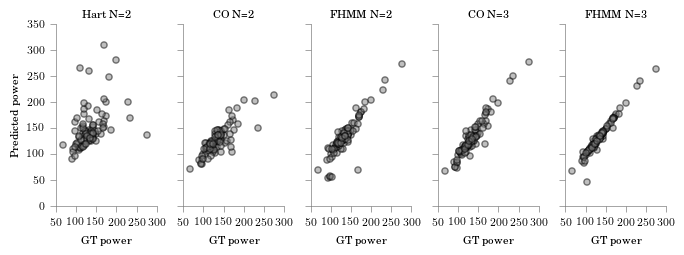
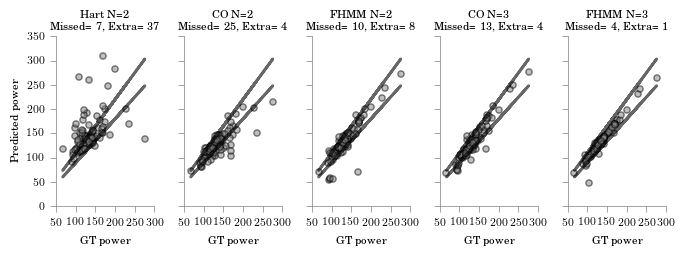
more data from HVAC

diff --git a/code/hvac/model_accuracy_nilm_group.py b/code/hvac/model_accuracy_nilm_group.py
@@ -18,9 +18,9 @@ from common_functions import latexify, format_axes
 
 NUM_CLASSES = 2
 
-output = OrderedDict()
+output ={}
 gt_confusion = np.array([[25, 9], [8, 16]])
-output["Submetered"] = {"Precision": 25.0 / 33, "Recall": 25.0 / 34, "Accuracy": 41.0 / 58}
+hart_confusion = np.array([[25, 9],[13,11]])
 
 
 def powerset(iterable, N_max):
@@ -36,23 +36,22 @@ def accuracy_multiclass(y_true, y_pred):
         out += confusion[i, i] * 1.0 / np.sum(confusion[i])
     return out / length
 
-def find_name(folder):
+def return_name(folder):
     algo_name = folder.split("_")[-1]
     algo_N = folder.split("_")[0][1]
     algo_K = folder.split("_")[1][1]
     if algo_name=="Hart":
-        return "Hart"
+        return "Hart", 2, 3
     else:
-        return algo_name+" (N= "+algo_N+", K= "+algo_K+")"
+        return algo_name, algo_N, algo_K
 
 
-to_consider = ["N2_K3_T50_CO", "N2_K4_T50_CO", "N2_K5_T50_CO","N2_K6_T50_CO"
-               "N3_K3_T50_CO", "N3_K4_T50_CO", "N3_K5_T50_CO","N3_K6_T50_CO"
-               "N4_K3_T50_CO", "N4_K4_T50_CO", "N4_K5_T50_CO","N4_K6_T50_CO",
-               "N2_K3_T50_FHMM", "N2_K4_T50_FHMM", "N2_K5_T50_FHMM","N2_K6_T50_FHMM"
-               "N3_K3_T50_FHMM", "N3_K4_T50_FHMM", "N3_K5_T50_FHMM","N3_K6_T50_FHMM"
-               "N4_K3_T50_FHMM", "N4_K4_T50_FHMM", "N4_K5_T50_FHMM","N4_K6_T50_FHMM"
-                ]
+to_consider = ["N2_K3_T50_CO", "N2_K4_T50_CO", "N2_K5_T50_CO",
+               "N3_K3_T50_CO", "N3_K4_T50_CO", "N3_K5_T50_CO",
+               "N4_K3_T50_CO", "N4_K4_T50_CO", "N4_K5_T50_CO",
+               "N2_K3_T50_FHMM","N2_K4_T50_FHMM","N2_K5_T50_FHMM",
+               "N3_K3_T50_FHMM","N3_K4_T50_FHMM","N3_K5_T50_FHMM",
+               "N4_K3_T50_FHMM","N4_K4_T50_FHMM","N4_K5_T50_FHMM"]
 
 for folder in to_consider:
     df = pd.read_csv("../../data/hvac/minutes_%s.csv" % folder)
@@ -79,13 +78,39 @@ for folder in to_consider:
     recall = 1.0 * a[0][0] / (a[0][0] + a[0][1])
     overall_accuracy = 1.0 * (a[0][0] + a[1][1]) / (np.sum(a))
 
-    algo_identifier = find_name(folder)
-    output[algo_identifier] = {"Precision": precision, "Recall": recall, "Accuracy": overall_accuracy}
+    algo, N, K = return_name(folder)
+    for metric in ["Precision", "Recall", "Accuracy"]:
+        if metric not in output:
+         output[metric] = {}
+
+    for metric in ["Precision", "Recall", "Accuracy"]:
+        if N not in output[metric]:
+                output[metric][N] = {}
+
+    for metric in ["Precision", "Recall", "Accuracy"]:
+        if K not in output[metric][N]:
+            output[metric][N][K] = {}
+    o_dict= {"Precision": precision, "Recall": recall, "Accuracy": overall_accuracy}
+
+    for metric in ["Precision", "Recall", "Accuracy"]:
+        output[metric][N][K][algo] = o_dict[metric]
+
+
+latexify(columns=2, fig_height=4.8)
+fig, ax = plt.subplots(nrows=3, ncols=3)
+
+for row_num, metric in enumerate(["Precision", "Recall", "Accuracy"]):
+    for col_num, num_states in enumerate(['2','3','4']):
+        df = pd.DataFrame(output[metric][num_states])
+        df.plot(kind="bar", ax=ax[row_num, col_num])
+
+plt.savefig(os.path.join(script_path, "../../figures/hvac/","hvac_feedback_nilm_aggregate.pdf"))
+plt.savefig(os.path.join(script_path, "../../figures/hvac/","hvac_feedback_nilm_aggregate.png"))
+
 """
 out_df = pd.DataFrame(output)
 #out_df.columns = ["Submetered", "CO (N=2, K=3)","CO (N=3, K=3)","CO (N=3, K=4)","FHMM (N=2, K=3)","FHMM (N=3, K=3)", "Hart"]
 
-latexify(columns=2, fig_height=2.6)
 ax = out_df.plot(kind="bar", rot=0)
 format_axes(ax)
 plt.tight_layout()

diff --git a/code/hvac/curve_fitting_hvac_weather_lmfit_constraints_2013.py b/code/hvac/curve_fitting_hvac_weather_lmfit_constraints_2013.py
@@ -3,10 +3,11 @@ import os
 import numpy as np
 import matplotlib.pyplot as plt
 
-plt.style.use('ggplot')
 import pandas as pd
 from lmfit import minimize, Parameters, report_fit
 
+import sys
+sys.path.append("../common")
 
 def get_hourly_aggregate(df, how='mean'):
     df_c = df.copy()
@@ -217,12 +218,31 @@ energy_df = pd.DataFrame({"energy": energy})
 energy_hourly_mean_df = get_hourly_aggregate(energy_df)
 temp_hourly_mean_df = get_hourly_aggregate(hour_usage_df[["temperature"]])
 
-fig, ax = plt.subplots()
-plt.plot(data, label='actual')
-plt.plot(final, label='predicted')
-plt.legend()
-plt.xlabel("Hours")
-plt.ylabel("Energy in kWh")
+from common_functions import latexify, format_axes
+latexify(columns=1, fig_height=3.4)
+fig, ax = plt.subplots(nrows=2)
+ax[0].scatter(data, final)
+ax[0].set_xlabel("Actual energy consumption(kWh)\n(a)")
+ax[0].set_ylabel("Predicted energy\n consumption(kWh)")
+
+ax[1].plot(data[:24], label='Actual')
+ax[1].plot(final[:24], label='Predicted')
+#plt.fill_between(range(len(data[:24])), data[:24], 0, color='g', alpha=1, label='actual')
+#plt.fill_between(range(len(final[:24])), final[:24], 0, color='r', alpha=0.5, label='predicted')
+ax[1].legend(loc="upper center")
+ax[1].set_xlabel("Hours\n(b)")
+ax[1].set_ylabel("Energy (kWh)")
+
+format_axes(ax[0])
+format_axes(ax[1])
+plt.tight_layout()
+
+import os
+
+plt.savefig(os.path.expanduser("~/git/nilm-actionable/figures/hvac/model.pdf"))
+plt.savefig(os.path.expanduser("~/git/nilm-actionable/figures/hvac/model.png"))
+
+"""
 if SAVE:
     plt.savefig("pred_actual.png")
 fig, ax = plt.subplots(nrows=3, sharex=True)
@@ -241,3 +261,4 @@ ax[2].set_ylabel("Hourly mean temperature")
 plt.xlabel("Hour of day")
 if SAVE:
     plt.savefig("setpoint.png")
+"""

diff --git a/code/hvac/nilm_create_feature.py b/code/hvac/nilm_create_feature.py
@@ -123,10 +123,13 @@ def fcn2min_time_fixed_binary(params, x, data):
 
 
 
-to_consider = ["N2_K3_T50_CO", "N2_K4_T50_CO", "N2_K5_T50_CO",
-               "N3_K3_T50_CO", "N3_K4_T50_CO", "N3_K5_T50_CO",
-               "N2_K3_T50_FHMM","N2_K4_T50_FHMM","N2_K5_T50_FHMM",
-               "N3_K3_T50_FHMM","N3_K4_T50_FHMM","N3_K5_T50_FHMM",
+to_consider = ["N2_K3_T50_CO", "N2_K4_T50_CO", "N2_K5_T50_CO","N2_K6_T50_CO",
+               "N3_K3_T50_CO", "N3_K4_T50_CO", "N3_K5_T50_CO","N3_K6_T50_CO",
+               "N4_K3_T50_CO", "N4_K4_T50_CO", "N4_K5_T50_CO","N4_K6_T50_CO",
+               
+               "N2_K3_T50_FHMM", "N2_K4_T50_FHMM", "N2_K5_T50_FHMM","N2_K6_T50_FHMM",
+               "N3_K3_T50_FHMM", "N3_K4_T50_FHMM", "N3_K5_T50_FHMM","N3_K6_T50_FHMM",
+               "N4_K3_T50_FHMM", "N4_K4_T50_FHMM", "N4_K5_T50_FHMM","N4_K6_T50_FHMM",
                "N2_K3_T50_Hart" ]
 
 script_path = os.path.dirname(os.path.realpath(__file__))

diff --git a/code/fridge/plot_power_level.py b/code/fridge/plot_power_level.py
@@ -28,10 +28,17 @@ for i, folder in enumerate(FOLDER_NAMES):
     algo_name = folder.split("_")[-1]
     dictionary_key = folder[:3]+algo_name
     N = folder[1]
+    gt = df["GT"].values
+    upper_bound = 1.1*gt
+    lower_bound = 0.9*gt
+    under_pred = (df[dictionary_key]<lower_bound).sum()
+    extra_pred = (df[dictionary_key]>upper_bound).sum()
     ax[i].scatter(df["GT"], df[dictionary_key],c='gray',alpha=0.5)
     ax[i].set_xlabel("GT power")
+    ax[i].plot(gt, upper_bound, color='black', alpha=0.6, linewidth=2)
+    ax[i].plot(gt, lower_bound, color='black', alpha=0.6, linewidth=2)
 
-    ax[i].set_title(r"%s N=%s" %(algo_name,N))
+    ax[i].set_title(r"%s N=%s" "\n Missed= %d, Extra= %d" %(algo_name,N, under_pred, extra_pred))
     format_axes(ax[i])
 ax[0].set_ylabel("Predicted power")
 plt.tight_layout()

diff --git a/code/fridge/disag_fridge_usage_energy_usage_ratio_outlier.py b/code/fridge/disag_fridge_usage_energy_usage_ratio_outlier.py
@@ -17,9 +17,12 @@ DATA_PATH = os.path.join(script_path, "..","..","data/fridge")
 submetered_homes_feedback = np.array([142, 144, 146, 151, 152, 155, 157, 159, 163, 167, 169, 170])
 
 latexify(columns=2, fig_height=2.8)
+algo_total = ["N2_K3_CO","N2_K4_CO","N2_K3_FHMM","N2_K4_FHMM", "N2_K3_Hart"]
+#algo_total = ["N2_K3_CO","N2_K4_CO","N2_K3_FHMM","N2_K4_FHMM", "N2_K3_Hart"]
+ncols = len(algo_total)
 fig, ax = plt.subplots(ncols=3, sharey=True)
 
-for i, algo in enumerate(["CO", "FHMM", "Hart"]):
+for i, algo in enumerate(algo_total):
 
     df = pd.read_csv(os.path.join(DATA_PATH, "%s_usage_defrost_cycles.csv" %algo)).dropna()
 
